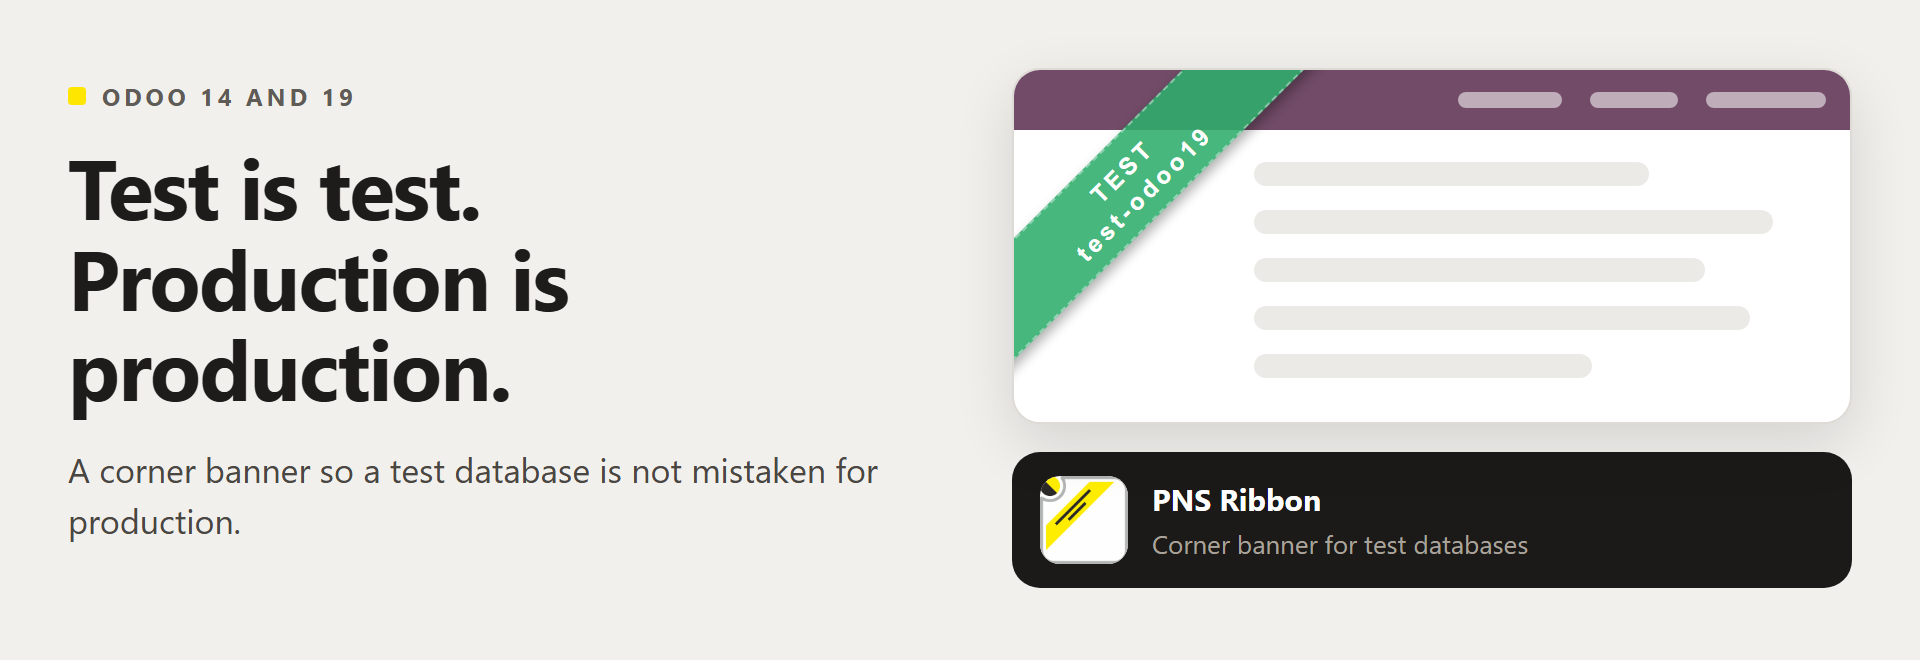
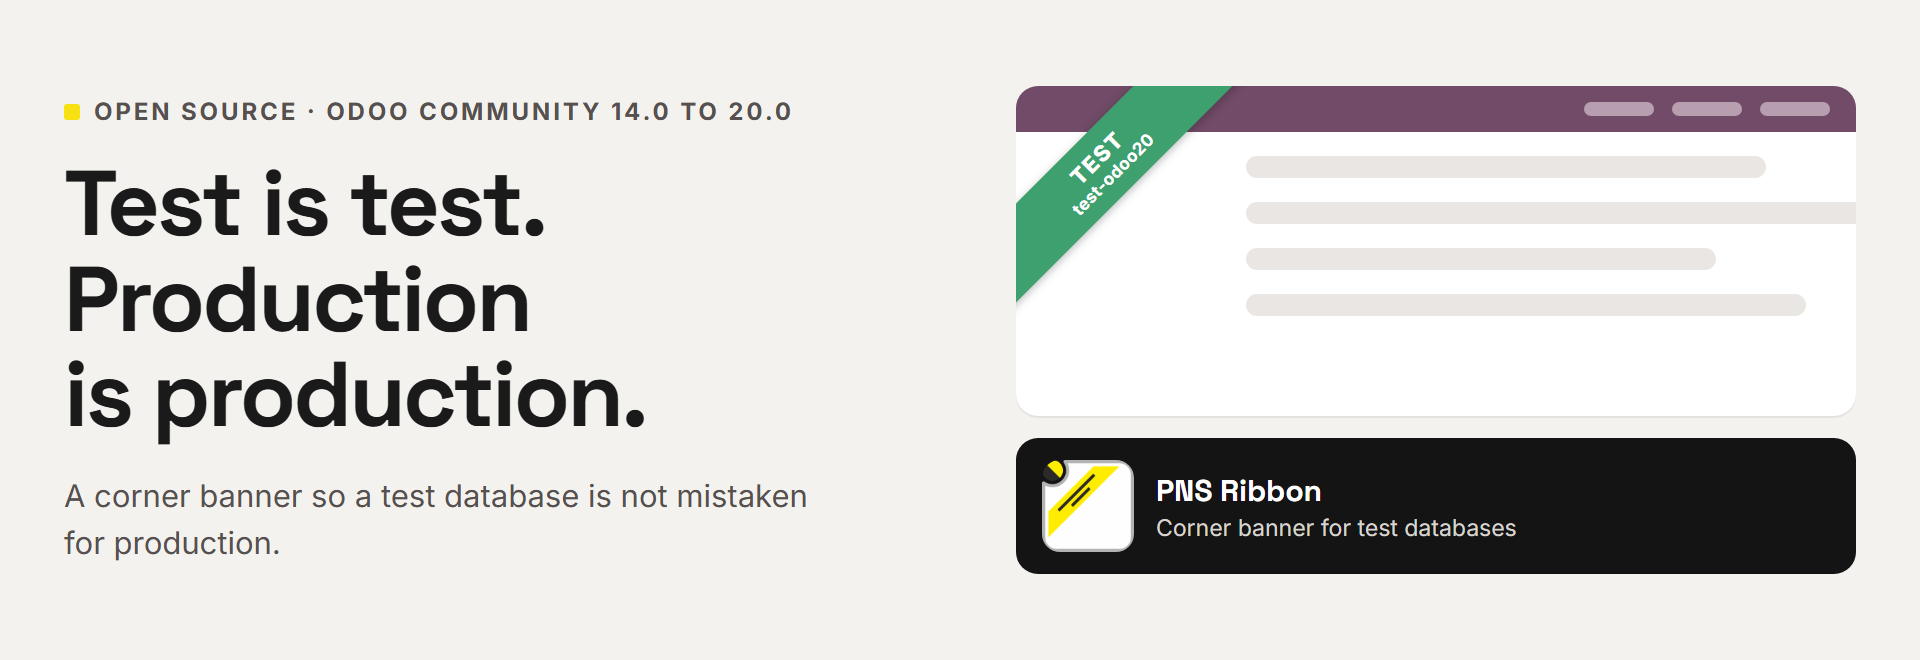
pns_ribbon 1.0.17 for Odoo 18.0

diff --git a/pns_ribbon/__manifest__.py b/pns_ribbon/__manifest__.py
@@ -5,7 +5,7 @@
 
 {
     'name': 'PNS Ribbon',
-    'version': '18.0.1.0.16',
+    'version': '18.0.1.0.17',
     'images': ['static/description/banner_store.png'],
     'category': 'Web',
     'summary': 'Visual ribbon (TEST/DEV banner) to identify non-production instances.',

diff --git a/pns_ribbon/CHANGELOG.md b/pns_ribbon/CHANGELOG.md
@@ -2,6 +2,10 @@
 
 What changes for people who use this module, one section per published version, newest first. The heading is the git tag.
 
+## owl1-1.0.17_owl2-1.0.17_owl3-1.0.17 (2026-11-09)
+
+- Banners (Apps store, README and site) show the seven supported series, 14.0 to 20.0; the old ones still said 14 and 19. Images only.
+
 ## owl1-1.0.16_owl2-1.0.16_owl3-1.0.16 (2026-11-09)
 
 - Odoo 15, 16, 17, 18 and 20 join 14 and 19: every series from 14.0 to 20.0 is tested and has its own flat branch.
